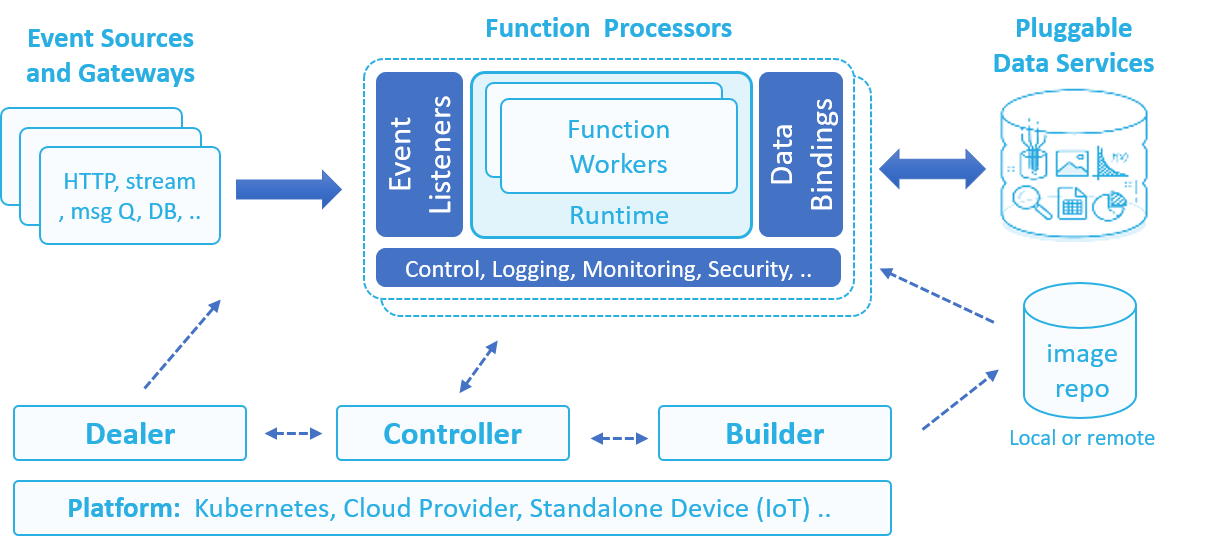
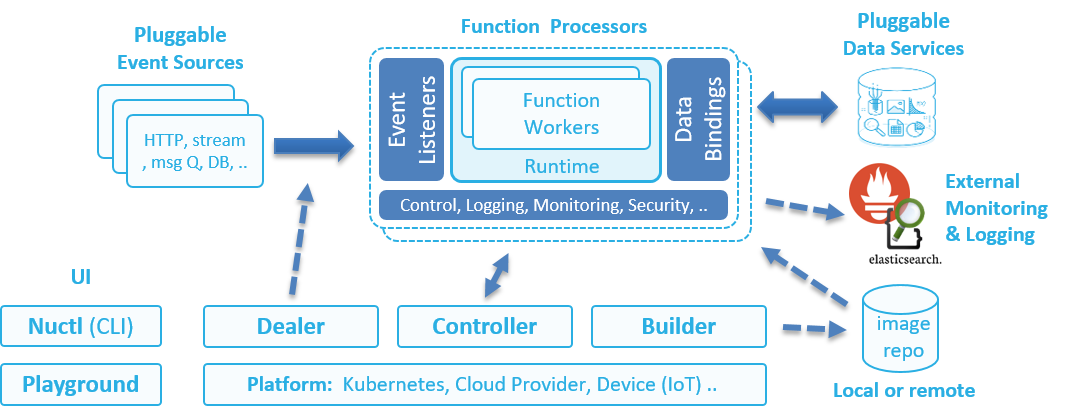
edit readme and pics

diff --git a/README.md b/README.md
@@ -2,6 +2,7 @@
 [![Go Report Card](https://goreportcard.com/badge/github.com/nuclio/nuclio)](https://goreportcard.com/report/github.com/nuclio/nuclio)
 
 <p align="center"><img src="docs/images/logo.png" width="180"/></p>
+
 # nuclio &mdash; "Serverless" for Real-Time Events and Data Processing
 
 nuclio is a new serverless project, derived from iguazio's elastic data life-cycle management service for high-performance events and data processing.
@@ -11,14 +12,17 @@ You can use nuclio as a standalone binary (for example, for IoT devices), packag
 nuclio is extremely fast. A single function instance can process hundreds of thousands of HTTP requests or data records per second.
 This is 10&ndash;100 times faster than some other frameworks. See [nuclio Architecture](docs/architecture.md) to learn how it works.
 
+nuclio technical [**presentation in slideshare**](https://www.slideshare.net/iguazio/nuclio-overview-october-2017-80356865)
+and a the video [**recording with demo**](https://www.youtube.com/watch?v=xlOp9BR5xcs)
+
 **Note:** nuclio is still under development, and is not recommended for production use.
 
 **In This Document**
 - [Why Another "serverless" Project?](#why-another-serverless-project)
+- [Getting-Started Start With nuclio](#getting-started-with-nuclio)
 - [nuclio High-Level Architecture](#nuclio-high-level-architecture)
-- [Getting Started Example](#getting-started-example)
-- [Function Versioning](#function-versioning)
-- [Function Configuration and Metadata](#function-configuration-and-metadata)
+- [Function Examples](#nuclio-function-examples)
+- [More Details and Links](#more-details-and-linksa)
 
 
 ## Why Another "serverless" Project?
@@ -35,6 +39,13 @@ We considered existing cloud and open-source serverless solutions, but none addr
 We designed nuclio to be extendable, using a modular and layered approach.
 We hope many will join us in developing new modules and integrations with more event and data sources, developer tools, and cloud platforms.
 
+## Getting-Started Start With nuclio 
+
+The simplest way to explore nuclio is to deploy the Playground micro-service (packaged as a kubernetes deployment), open a browser window, write code, deploy and execute functions. 
+for more control use the nuctl CLI or APIs.
+Head over to the [nuclio SDK repository](http://github.com/nuclio/nuclio-sdk) for a complete step-by-step guide for writing and deploying your first nuclio function.
+
+![playground](docs/images/playground.png)
 
 ## nuclio High-Level Architecture
 
@@ -49,14 +60,8 @@ We hope many will join us in developing new modules and integrations with more e
 </dl>
 
 <dl>
-  <dt>Controller</dt>
-  <dd>A controller accepts function and event-source specifications, invokes builders and processors through an orchestration platform (such as Kubernetes), and manages function elasticity, life cycle, and versions.
-  </dd>
-</dl>
-
-<dl>
   <dt>Event Sources</dt>
-  <dd>Functions can be invoked through a variety of event sources (such as HTTP, RabitMQ, Kafka, Kinesis, DynamoDB, iguazio v3io, or schedule), which are defined in the function specification.<br />
+  <dd>Functions can be invoked through a variety of event sources (such as HTTP, RabitMQ, Kafka, Kinesis, NATS, DynamoDB, iguazio v3io, or schedule), which are defined in the function specification.<br />
       Event sources are divided into several event classes (req/rep, async, stream, pooling), which define the sources' behavior.<br />
       Different event sources can plug seamlessly into the same function without sacrificing performance, allowing for portability, code reuse, and flexibility.
   </dd>
@@ -69,6 +74,24 @@ We hope many will join us in developing new modules and integrations with more e
       Bound data can be in the form of files, objects, records, messages etc.<br />
       The function specification may include an array of data-binding rules, each specifying the data resource and its credentials and usage parameters.<br />
       Data-binding abstraction allows using the same function with different data sources of the same type, and enables function portability.
+  </dd>
+</dl>
+
+<dl>
+  <dt>Playground</dt>
+  <dd>The playground is a standalone container micro-service accessed through HTTP, it presents a code editor UI for editing, deploying and testing functions. This is the most user-friendly way to work with nuclio. The playground container comes with a version of the builder inside.
+  </dd>
+</dl>
+
+<dl>
+  <dt>nuctl cli</dt>
+  <dd>nuctl is nuclio command line tool (cli), allowing users to list, create, build, update, execute and delete functions. 
+  </dd>
+</dl>
+
+<dl>
+  <dt>Controller</dt>
+  <dd>A controller accepts function and event-source specifications, invokes builders and processors through an orchestration platform (such as Kubernetes), and manages function elasticity, life cycle, and versions.
   </dd>
 </dl>
 
@@ -94,7 +117,50 @@ We hope many will join us in developing new modules and integrations with more e
 
 For more information about the nuclio architecture, see [nuclio Architecture](docs/architecture.md).
 
+## nuclio Function Examples
 
-## Getting-Started Example
-Head over to the [nuclio SDK repository](http://github.com/nuclio/nuclio-sdk) for a complete step-by-step guide for writing and deploying your first nuclio function.
+The function demonstrated below, uses the `Event` and `Context` interfaces to handle inputs and logs, and returns a structured HTTP response (can also use a simple string as returned value).
 
+in Golang
+```golang
+package handler
+
+import (
+    "github.com/nuclio/nuclio-sdk"
+)
+
+func Handler(context *nuclio.Context, event nuclio.Event) (interface{}, error) {
+    context.Logger.Info("Request received: %s", event.GetPath())
+
+    return nuclio.Response{
+        StatusCode:  200,
+        ContentType: "application/text",
+        Body: []byte("Response from handler"),
+    }, nil
+}
+```
+
+in Python
+```python
+def handler(context, event):
+    response_body = f'Got {event.method} to {event.path} with "{event.body}"'
+    
+    # log with debug severity
+    context.logger.debug('This is a debug level message')
+
+    # just return a response instance
+    return context.Response(body=response_body,
+                            headers=None,
+                            content_type='text/plain',
+                            status_code=201)
+```
+
+## More Details and Links 
+
+- [nuclio SDK repository](http://github.com/nuclio/nuclio-sdk) - step-by-step guide for writing and deploying nuclio functions.
+- [nuctl CLI Guide](docs/nuctl/nuctl.md)
+- [nuclio Architecture Details](docs/architecture.md)
+- [nuclio Function Configuration and Metadata](docs/function-spec.md)
+- [Using kubernetes ingress resources (as nuclio API gateway)](https://kubernetes.io/docs/concepts/services-networking/ingress/)
+
+for more questions and help use nuclio [slack channel](https://nuclio-io.slack.com)
